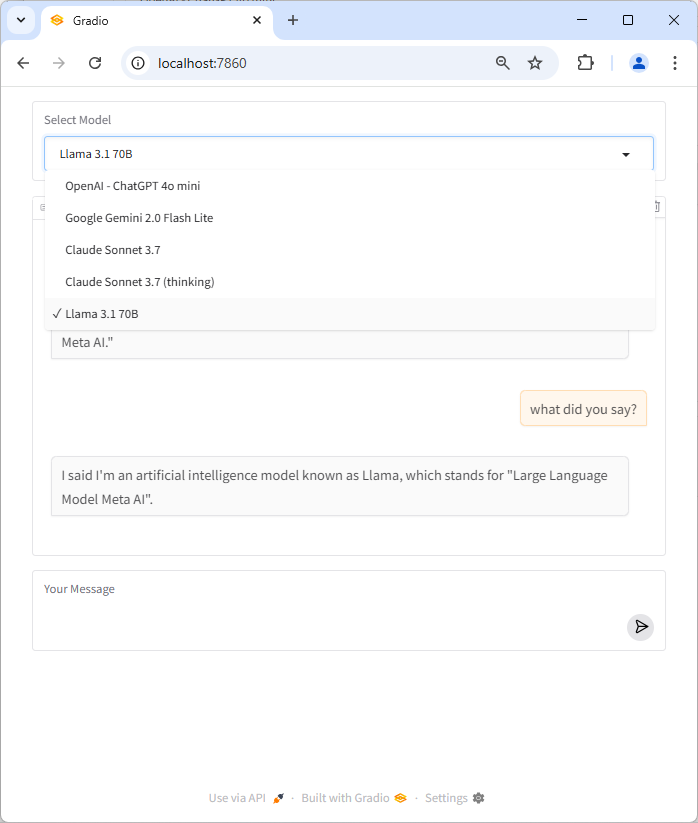
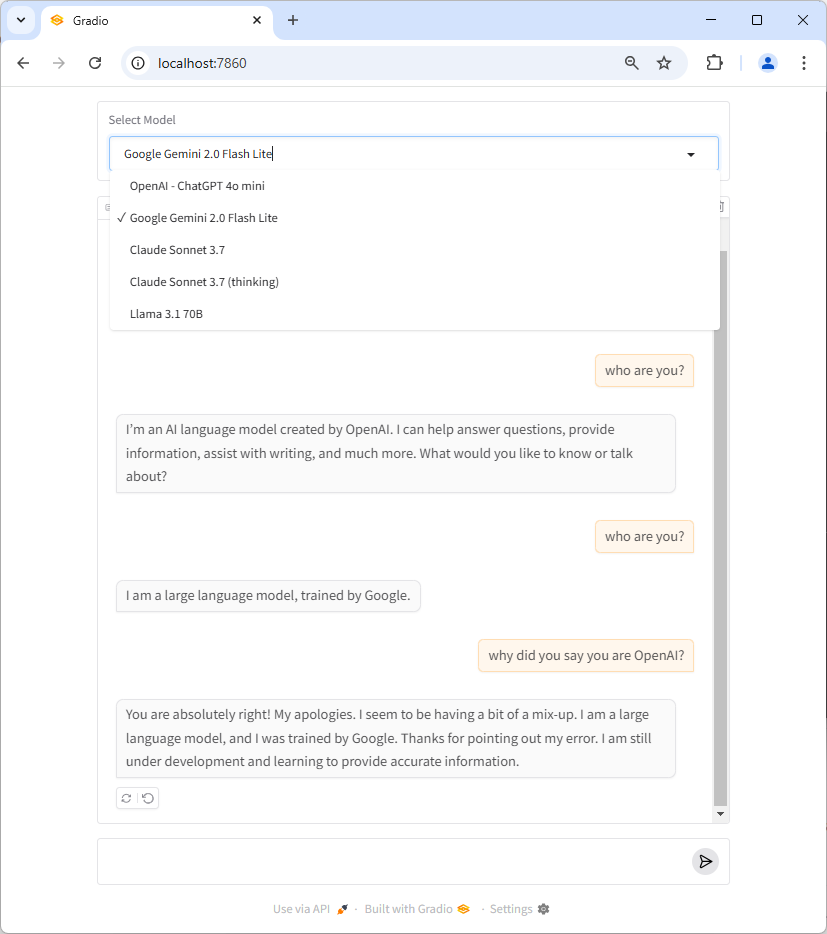
Gradio interface, use ChatInterface instead of Interface for cleaner code and UI, also style it to fill full window height

diff --git a/app/server.py b/app/server.py
@@ -10,7 +10,7 @@ models = [
     ("Llama 3.1 70B",               "meta-llama/llama-3.1-70b-instruct:free"),  # actually not free
 ]
 
-def predict(model_name, message, history):
+def predict(message, history, model_name):
 
     chat_model = ChatOpenRouter(model_name=model_name)
 
@@ -22,26 +22,19 @@ def predict(model_name, message, history):
             history_langchain_format.append(AIMessage(content=msg['content']))
 
     history_langchain_format.append(HumanMessage(content=message))
-
     gpt_response = chat_model.invoke(history_langchain_format)
 
     return gpt_response.content
 
-def respond(msg, chat_history, model_name):
-    if not msg.strip():
-        return "", chat_history
-    bot_msg = predict(model_name, msg, chat_history)
-    chat_history.append({"role": "user", "content": msg})
-    chat_history.append({"role": "assistant", "content": bot_msg})
-    return "", chat_history
-
 if __name__ == '__main__':
-    with gr.Blocks() as demo:
-        model_selector = gr.Dropdown(models, label="Select Model", value="openai/gpt-4o-mini")
-        chatbot = gr.Chatbot(type="messages")
-        msg = gr.Textbox(label="Your Message", submit_btn=True)
-        msg.submit(respond, [msg, chatbot, model_selector], [msg, chatbot])
 
+    with gr.Blocks(fill_height=True) as demo:
+        model_selector = gr.Dropdown(models, label="Select Model", value="openai/gpt-4o-mini", scale=0)
+        gr.ChatInterface(
+            predict,
+            type="messages",
+            additional_inputs=[model_selector],
+        )
 
     # for simplicity, force the port to be 7860
     demo.launch(server_name='0.0.0.0', server_port=7860)
